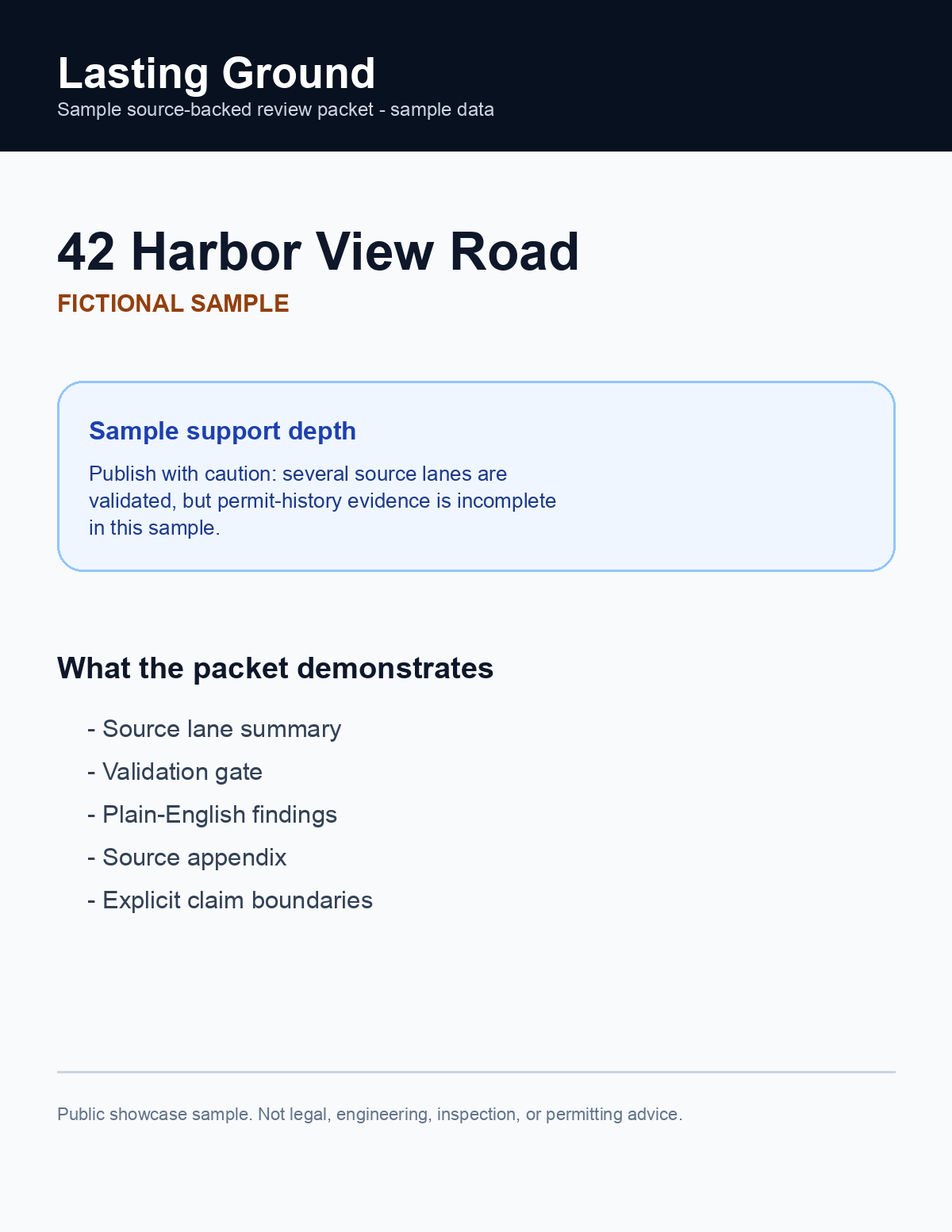
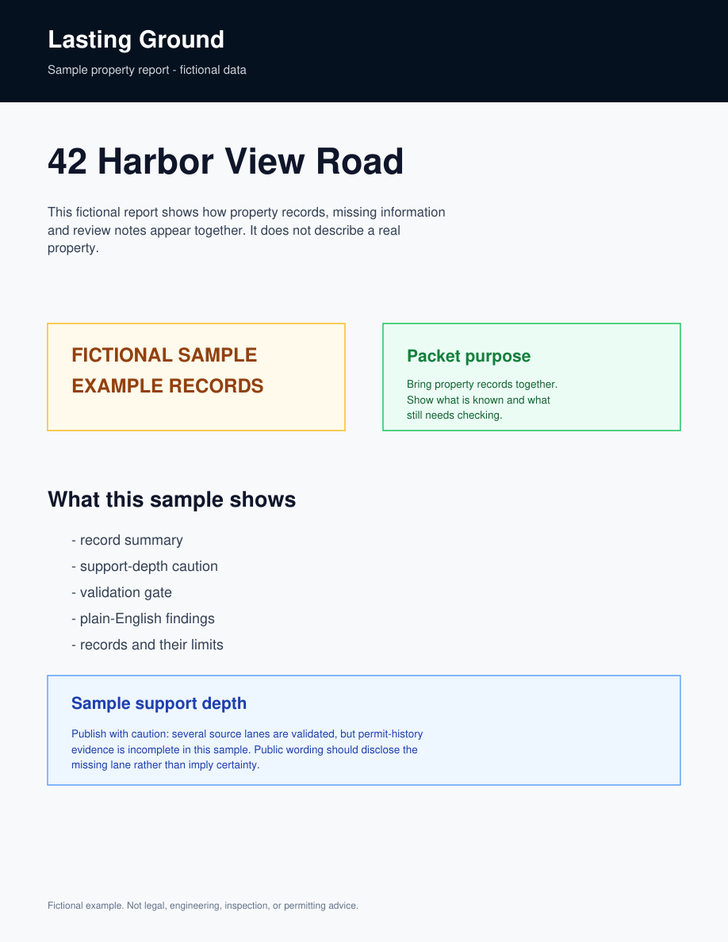
Clarify project documentation and remove obsolete portfolio copy

diff --git a/docs/index.html b/docs/index.html
@@ -1,1 +1,1 @@
-<!doctype html><html lang="en"><head><meta charset="utf-8"><meta name="viewport" content="width=device-width,initial-scale=1"><title>Lasting Ground — Public code showcase</title><meta name="description" content="Property research with official sources."><link rel="stylesheet" href="presentation.css"><style>.showcase-cover{width:100%;height:auto;border-radius:12px;display:block}.sample-layout{display:grid;grid-template-columns:.7fr 1.3fr;gap:48px}.sample-form{display:grid;align-content:start;gap:16px}.sample-form label{font-size:13px}.sample-form select{display:block;width:100%;margin-top:8px;background:#222824;color:#e9ede3;border:1px solid #465347;border-radius:5px;padding:12px;font:inherit;min-height:44px}.packet{background:#e5e8dc;color:#273c30;padding:32px;border-radius:12px}.packet h3{font:450 28px/1.3 Fraunces,Georgia,serif}.packet p{font-size:13px;color:#425547}.packet .source{border-top:1px solid #bbc8b6;padding:15px 0;display:flex;justify-content:space-between;gap:20px;font-size:13px;line-height:1.6}.packet .source small{display:block;font-size:12px;color:#4b604e}.packet .badge{font-size:11px;white-space:nowrap;color:#294b36}.packet .warn,.packet .no{color:#78401b}.packet .metric-row{display:flex;gap:30px;margin:25px 0}.packet .metric b{display:block;font-size:26px}.packet .metric span{font-size:11px}.packet .stamp{font-size:11px}.sample-note{font-size:12px!important;line-height:1.8}.project-row a:focus-visible{outline:2px solid #bed1a6}.demo-title{margin-top:0}@media(max-width:700px){.sample-layout{grid-template-columns:1fr;gap:28px}.packet{padding:23px}.packet .source{gap:12px}.packet .metric-row{gap:22px}.showcase-cover{border-radius:6px}}</style></head><body><a class="skip" href="#main">Skip to content</a><div class="wrap"><header><a class="identity" href="https://sulmusic2-star.github.io/">Tim Sullivan<span class="identity-dot" aria-hidden="true"></span></a><nav aria-label="Main navigation"><a href="https://sulmusic2-star.github.io/">Portfolio</a><a href="https://github.com/sulmusic2-star">GitHub</a></nav></header><main id="main"><section class="case-intro"><h1>Lasting Ground</h1><p class="lede">Property research with official sources.</p><div class="links"><a href="https://sulmusic2-star.github.io/case-studies/lasting-ground/">Explore the full case study ↗</a><a href="https://github.com/sulmusic2-star/lasting-ground-showcase">Repository and tests ↗</a></div></section><img class="showcase-cover" src="https://sulmusic2-star.github.io/assets/lasting-ground-product-cover.png" width="1280" height="720" alt="Lasting Ground, showing the actual public property-search interface"><section class="case-section" id="interactive"><div class="section-heading"><h2>Try a sample<br>property report.</h2><p>A small presentation demo using three fictional addresses. Change the fixture to see supported, caution, missing and not-applicable lanes remain visible.</p></div><div class="sample-layout"><div class="sample-form"><label for="address">Fictional address<select disabled id="address"><option>42 Harbor View Road</option><option>18 Marsh Lane</option><option>7 Upland Circle</option></select></label><label for="purpose">Packet heading<select disabled id="purpose"><option>Homeowner review packet</option><option>Buyer context packet</option><option>Neighborhood source brief</option></select></label><p class="sample-note">No source retrieval happens here. The full application source is private; the repository contains selected synthetic Python examples.</p><noscript><p>Enable JavaScript to switch sample fixtures. The source examples below remain available.</p></noscript></div><div class="packet" id="packet" aria-live="polite"><h3>Synthetic packet preview</h3><p>The interactive preview loads with JavaScript.</p></div></div></section><section class="case-section"><div class="section-heading"><h2>Read the code.</h2><p>Each example includes tests and notes on its limits.</p></div><div class="project-row"><h3><a href="https://github.com/sulmusic2-star/lasting-ground-showcase/blob/main/examples/evidence_scoring.py">Evidence scoring ↗</a></h3><p>Weights declared authority, freshness, support and blockers. The inputs are supplied metadata, not independently verified source truth.</p></div><div class="project-row"><h3><a href="https://github.com/sulmusic2-star/lasting-ground-showcase/blob/main/examples/packet_composer.py">Packet composition ↗</a></h3><p>Builds readable sections from scored evidence and carries cautions into the output.</p></div><div class="project-row"><h3><a href="https://github.com/sulmusic2-star/lasting-ground-showcase/blob/main/examples/source_lane_validation.py">Source lane validation ↗</a></h3><p>Checks sample lane states. Its support summary is count-based, not semantic property verification.</p></div></section><section class="case-section"><div class="section-heading"><h2>Follow a real<br>archived record.</h2><p>The companion GroundTruth-Geo case study follows an address query to the saved source, a location discrepancy and a conclusion limited to the queried point.</p></div><div class="links"><a href="https://sulmusic2-star.github.io/notes/groundtruth-geo/#evidence">Open the evidence explorer ↗</a><a href="https://sulmusic2-star.github.io/assets/evidence/archived-point-study.pdf">Download the archived study ↓</a><a href="https://github.com/sulmusic2-star/lasting-ground-showcase/tree/main/docs/adr">Design decisions ↗</a></div></section></main><footer><p>Tim Sullivan<br><span>Selected public examples.</span></p><a href="https://sulmusic2-star.github.io/">Return to portfolio</a></footer></div><script src="showcase.js"></script></body></html>
+<!doctype html><html lang="en"><head><meta charset="utf-8"><meta name="viewport" content="width=device-width,initial-scale=1"><title>Lasting Ground — Public code showcase</title><meta name="description" content="Property research with official records."><link rel="stylesheet" href="presentation.css"><style>.showcase-cover{width:100%;height:auto;border-radius:12px;display:block}.sample-layout{display:grid;grid-template-columns:.7fr 1.3fr;gap:48px}.sample-form{display:grid;align-content:start;gap:16px}.sample-form label{font-size:13px}.sample-form select{display:block;width:100%;margin-top:8px;background:#222824;color:#e9ede3;border:1px solid #465347;border-radius:5px;padding:12px;font:inherit;min-height:44px}.packet{background:#e5e8dc;color:#273c30;padding:32px;border-radius:12px}.packet h3{font:450 28px/1.3 Fraunces,Georgia,serif}.packet p{font-size:13px;color:#425547}.packet .source{border-top:1px solid #bbc8b6;padding:15px 0;display:flex;justify-content:space-between;gap:20px;font-size:13px;line-height:1.6}.packet .source small{display:block;font-size:12px;color:#4b604e}.packet .badge{font-size:11px;white-space:nowrap;color:#294b36}.packet .warn,.packet .no{color:#78401b}.packet .metric-row{display:flex;gap:30px;margin:25px 0}.packet .metric b{display:block;font-size:26px}.packet .metric span{font-size:11px}.packet .stamp{font-size:11px}.sample-note{font-size:12px!important;line-height:1.8}.project-row a:focus-visible{outline:2px solid #bed1a6}.demo-title{margin-top:0}@media(max-width:700px){.sample-layout{grid-template-columns:1fr;gap:28px}.packet{padding:23px}.packet .source{gap:12px}.packet .metric-row{gap:22px}.showcase-cover{border-radius:6px}}</style></head><body><a class="skip" href="#main">Skip to content</a><div class="wrap"><header><a class="identity" href="https://sulmusic2-star.github.io/">Tim Sullivan<span class="identity-dot" aria-hidden="true"></span></a><nav aria-label="Main navigation"><a href="https://sulmusic2-star.github.io/">Portfolio</a><a href="https://github.com/sulmusic2-star">GitHub</a></nav></header><main id="main"><section class="case-intro"><h1>Lasting Ground</h1><p class="lede">Property research with official records.</p><div class="links"><a href="https://sulmusic2-star.github.io/case-studies/lasting-ground/">Explore the full case study ↗</a><a href="https://github.com/sulmusic2-star/lasting-ground-showcase">Repository and tests ↗</a></div></section><img class="showcase-cover" src="https://sulmusic2-star.github.io/assets/lasting-ground-product-cover.png" width="1280" height="720" alt="Lasting Ground, showing the actual public property-search interface"><section class="case-section" id="interactive"><div class="section-heading"><h2>Try a sample<br>property report.</h2><p>Try three fictional addresses. Switch examples to see which records are supported, need review, are missing or do not apply.</p></div><div class="sample-layout"><div class="sample-form"><label for="address">Fictional address<select disabled id="address"><option>42 Harbor View Road</option><option>18 Marsh Lane</option><option>7 Upland Circle</option></select></label><label for="purpose">Packet heading<select disabled id="purpose"><option>Homeowner review packet</option><option>Buyer context packet</option><option>Neighborhood source brief</option></select></label><p class="sample-note">This demo does not retrieve records. The full application is private; the repository contains Python examples using fictional data.</p><noscript><p>Enable JavaScript to switch sample fixtures. The source examples below remain available.</p></noscript></div><div class="packet" id="packet" aria-live="polite"><h3>Synthetic packet preview</h3><p>The interactive preview loads with JavaScript.</p></div></div></section><section class="case-section"><div class="section-heading"><h2>Read the code.</h2><p>Each example includes tests and notes on its limits.</p></div><div class="project-row"><h3><a href="https://github.com/sulmusic2-star/lasting-ground-showcase/blob/main/examples/evidence_scoring.py">Evidence scoring ↗</a></h3><p>Weights declared authority, freshness, support and blockers. The inputs are supplied metadata, not independently verified source truth.</p></div><div class="project-row"><h3><a href="https://github.com/sulmusic2-star/lasting-ground-showcase/blob/main/examples/packet_composer.py">Packet composition ↗</a></h3><p>Builds readable sections from scored evidence and carries cautions into the output.</p></div><div class="project-row"><h3><a href="https://github.com/sulmusic2-star/lasting-ground-showcase/blob/main/examples/source_lane_validation.py">Source lane validation ↗</a></h3><p>Checks sample lane states. Its support summary is count-based, not semantic property verification.</p></div></section><section class="case-section"><div class="section-heading"><h2>Follow a real<br>archived record.</h2><p>The GroundTruth-Geo study follows an address query through a saved government response and a location check. Its conclusion applies only to the queried point.</p></div><div class="links"><a href="https://sulmusic2-star.github.io/notes/groundtruth-geo/#evidence">Open the evidence explorer ↗</a><a href="https://sulmusic2-star.github.io/assets/evidence/archived-point-study.pdf">Download the archived study ↓</a><a href="https://github.com/sulmusic2-star/lasting-ground-showcase/tree/main/docs/adr">Design decisions ↗</a></div></section></main><footer><p>Tim Sullivan<br><span>Selected public examples.</span></p><a href="https://sulmusic2-star.github.io/">Return to portfolio</a></footer></div><script src="showcase.js"></script></body></html>

diff --git a/docs/assets/lasting-ground-sample-packet.html b/docs/assets/lasting-ground-sample-packet.html
@@ -1,1 +1,1 @@
-<!doctype html><meta charset='utf-8'><title>Lasting Ground Sample Packet</title><body style='font-family:system-ui;margin:40px;max-width:900px'><h1>Lasting Ground sample packet</h1><p>Fake-data sample artifact source. Open the PDF from the live demo.</p><p><a href='lasting-ground-sample-packet.pdf'>PDF</a></p><p><a href='lasting-ground-sample-packet-cover.png'>Cover preview</a></p></body>
+<!doctype html><meta charset='utf-8'><title>Lasting Ground Sample Packet</title><body style='font-family:system-ui;margin:40px;max-width:900px'><h1>Lasting Ground sample packet</h1><p>A fictional property report. Open the PDF or its cover preview.</p><p><a href='lasting-ground-sample-packet.pdf'>PDF</a></p><p><a href='lasting-ground-sample-packet-cover.png'>Cover preview</a></p></body>

diff --git a/tools/build_sample_packet_assets.py b/tools/build_sample_packet_assets.py
@@ -103,24 +103,24 @@ def header(cmds, page_title="Lasting Ground"):
     cmds.append(rgb(248, 250, 252)); cmds.append(f"0 0 {W} {H} re f")
     cmds.append(rgb(7, 17, 31)); cmds.append(f"0 {H-86} {W} 86 re f")
     text(cmds, 40, H-40, page_title, 20, True, (255,255,255))
-    text(cmds, 40, H-62, "Sample source-backed review packet - sample data", 10, False, (209,213,219))
-    text(cmds, 40, 28, "Public showcase sample. Not legal, engineering, inspection, or permitting advice.", 8, False, (100,116,139))
+    text(cmds, 40, H-62, "Sample property report - fictional data", 10, False, (209,213,219))
+    text(cmds, 40, 28, "Fictional example. Not legal, engineering, inspection, or permitting advice.", 8, False, (100,116,139))
 
 
 def page_cover(pdf: MiniPDF):
     c=[]; header(c)
     text(c, 40, 646, "42 Harbor View Road", 30, True, (15,23,42))
-    for i,line in enumerate(wrap_lines("This fake packet demonstrates the artifact shape, source appendix, and validation posture of a source-backed property review system without using any real address.", 70)):
+    for i,line in enumerate(wrap_lines("This fictional report shows how property records, missing information and review notes appear together. It does not describe a real property.", 70)):
         text(c, 40, 610-i*15, line, 11, False, (51,65,85))
     rect(c, 40, 430, 250, 90, (255,251,235), (251,191,36))
     text(c, 60, 488, "FICTIONAL SAMPLE", 16, True, (146,64,14))
-    text(c, 60, 462, "SOURCE-BACKED", 16, True, (146,64,14))
+    text(c, 60, 462, "EXAMPLE RECORDS", 16, True, (146,64,14))
     rect(c, 322, 430, 250, 90, (236,253,245), (34,197,94))
     text(c, 342, 488, "Packet purpose", 14, True, (21,128,61))
-    for i,line in enumerate(wrap_lines("Translate fragmented public and official context into a reviewable, homeowner-readable packet while preserving uncertainty and source boundaries.", 36)):
+    for i,line in enumerate(wrap_lines("Bring property records together.\nShow what is known and what\nstill needs checking.", 36)):
         text(c,342,466-i*13,line,9,False,(22,101,52))
     text(c,40,366,"What this sample shows",18,True,(15,23,42))
-    items=["source lane summary","support-depth caution","validation gate","plain-English findings","source appendix with claim boundaries"]
+    items=["record summary","support-depth caution","validation gate","plain-English findings","records and their limits"]
     for i,it in enumerate(items):
         text(c,60,334-i*22,f"- {it}",12,False,(51,65,85))
     rect(c,40,132,532,92,(239,246,255),(96,165,250))
@@ -132,8 +132,8 @@ def page_cover(pdf: MiniPDF):
 
 def page_lanes(pdf: MiniPDF):
     c=[]; header(c)
-    text(c,40,670,"1. Source Lane Summary",22,True,(15,23,42))
-    for i,line in enumerate(wrap_lines("A source lane is a category of evidence. The system should track what each lane supports and what it does not support.",74)):
+    text(c,40,670,"1. Record summary",22,True,(15,23,42))
+    for i,line in enumerate(wrap_lines("Each record belongs to a category. The report lists what those records support and what remains unknown.",74)):
         text(c,40,642-i*14,line,10,False,(51,65,85))
     rows=[("State GIS Context","VALIDATED","Broad regional screening context."),("Town Zoning Reference","VALIDATED","Local routing/reference context."),("Conservation Record Lane","CAUTION","Public lane incomplete; disclose uncertainty."),("Flood Context","VALIDATED","Regional flood-context layer available."),("Permit History Packet","MISSING","No complete local packet in this sample.")]
     y=570
@@ -180,8 +180,8 @@ def page_gate(pdf: MiniPDF):
 
 def page_sources(pdf: MiniPDF):
     c=[]; header(c)
-    text(c,40,670,"4. Sample Source Appendix",22,True,(15,23,42))
-    for i,line in enumerate(wrap_lines("A useful packet should show source provenance and claim boundaries in plain English.",74)):
+    text(c,40,670,"4. Example records",22,True,(15,23,42))
+    for i,line in enumerate(wrap_lines("List where each record came from and what it supports.",74)):
         text(c,40,642-i*14,line,10,False,(51,65,85))
     rows=[("sample_state_gis","regional_context","Supports broad screening context; does not support parcel-specific legal conclusion."),("sample_town_zoning","local_reference","Supports local routing context; does not predict approval."),("sample_conservation_records","public_records","Supports review-history direction; incomplete in this sample."),("sample_flood_context","regional_layer","Supports flood-context screening; does not provide engineering design advice.")]
     y=570
@@ -206,7 +206,7 @@ def build_cover():
     d=ImageDraw.Draw(im)
     d.rectangle((0,0,1200,190),fill="#07111f")
     d.text((72,62),"Lasting Ground",font=_font(54,True),fill="white")
-    d.text((72,124),"Sample source-backed review packet - sample data",font=_font(24),fill="#cbd5e1")
+    d.text((72,124),"Sample property report - fictional data",font=_font(24),fill="#cbd5e1")
     d.text((72,280),"42 Harbor View Road",font=_font(66,True),fill="#0f172a")
     d.text((72,365),"FICTIONAL SAMPLE",font=_font(30,True),fill="#92400e")
     d.rounded_rectangle((72,480,1128,720),radius=32,fill="#eff6ff",outline="#93c5fd",width=3)
@@ -215,18 +215,18 @@ def build_cover():
     y=582
     for line in lines:
         d.text((112,y),line,font=_font(26),fill="#1e3a8a"); y+=34
-    d.text((72,820),"What the packet demonstrates",font=_font(38,True),fill="#0f172a")
-    items=["Source lane summary","Validation gate","Plain-English findings","Source appendix","Explicit claim boundaries"]
+    d.text((72,820),"What this sample shows",font=_font(38,True),fill="#0f172a")
+    items=["Record summary","Validation gate","Plain-English findings","Records","Limits"]
     y=900
     for item in items:
         d.text((110,y),f"- {item}",font=_font(31),fill="#334155"); y+=54
     d.rectangle((72,1350,1128,1352),fill="#cbd5e1")
-    d.text((72,1392),"Public showcase sample. Not legal, engineering, inspection, or permitting advice.",font=_font(22),fill="#64748b")
+    d.text((72,1392),"Fictional example. Not legal, engineering, inspection, or permitting advice.",font=_font(22),fill="#64748b")
     im.save(COVER_PATH,quality=94)
 
 
 def build_html():
-    HTML_PATH.write_text("""<!doctype html><meta charset='utf-8'><title>Lasting Ground Sample Packet</title><body style='font-family:system-ui;margin:40px;max-width:900px'><h1>Lasting Ground sample packet</h1><p>Fake-data sample artifact source. Open the PDF from the live demo.</p><p><a href='lasting-ground-sample-packet.pdf'>PDF</a></p><p><a href='lasting-ground-sample-packet-cover.png'>Cover preview</a></p></body>\n""")
+    HTML_PATH.write_text("""<!doctype html><meta charset='utf-8'><title>Lasting Ground Sample Packet</title><body style='font-family:system-ui;margin:40px;max-width:900px'><h1>Lasting Ground sample packet</h1><p>A fictional property report. Open the PDF or its cover preview.</p><p><a href='lasting-ground-sample-packet.pdf'>PDF</a></p><p><a href='lasting-ground-sample-packet-cover.png'>Cover preview</a></p></body>\n""")
 
 
 def main():

diff --git a/docs/evaluator-guide.md b/docs/evaluator-guide.md
@@ -1,12 +1,12 @@
-# Lasting Ground Evaluator Guide
+# Reviewing the Lasting Ground examples
 
-Use this if you are reviewing the repository quickly and want the strongest proof first.
+Start with the report, then inspect the code that produces it.
 
-## Thirty-second path
+## Where to start
 
 1. Open the live demo: https://sulmusic2-star.github.io/lasting-ground-showcase/
 2. Open the sample PDF packet: https://sulmusic2-star.github.io/lasting-ground-showcase/assets/lasting-ground-sample-packet.pdf
-3. Inspect the advanced evidence logic:
+3. Inspect the record checks and report code:
    - [`examples/evidence_scoring.py`](../examples/evidence_scoring.py)
    - [`examples/packet_composer.py`](../examples/packet_composer.py)
    - [`examples/source_lane_validation.py`](../examples/source_lane_validation.py)
@@ -16,12 +16,9 @@ Use this if you are reviewing the repository quickly and want the strongest proo
    - [GitHub Actions CI](https://github.com/sulmusic2-star/lasting-ground-showcase/actions/workflows/ci.yml)
 5. Read the case study: https://sulmusic2-star.github.io/case-studies/lasting-ground/
 
-## What this project is meant to prove
+## What the examples cover
 
-- Full-stack workflow thinking: source inputs, validation gates, support-depth decisions, generated artifacts.
-- Evidence discipline: source authority, freshness, missing-lane blockers, cautious packet language.
-- Operational design: review queues, release gates, sample artifacts, testable rules.
-- Communication: turning a complex domain into a packet a non-technical reader can understand.
+The Python examples take fictional records through validation, evidence scoring and report assembly. They show how missing information affects the output and which records need review. They do not retrieve or independently verify live property records.
 
 ## Files worth reading
 
@@ -33,6 +30,6 @@ Use this if you are reviewing the repository quickly and want the strongest proo
 | `examples/packet_language.py` | Guardrails against overconfident packet language. |
 | `tools/build_sample_packet_assets.py` | PDF/cover artifact generation. |
 
-## Why it is not just a PDF demo
+## Follow a result
 
-The PDF is the visible artifact. The examples show the operating system behind it: source-lane validation, evidence scoring, readiness decisions, review queues, and cautious language boundaries.
+Compare the input records, validation output and PDF. Warnings should remain visible when a record is missing or incomplete.

diff --git a/examples/README.md b/examples/README.md
@@ -1,16 +1,16 @@
 # Lasting Ground Code Examples
 
-Small examples that show how the evidence model can become a validation output before a packet is generated.
+These examples check supplied records before assembling a report.
 
 ## Files
 
-- [`sample_packet_input.json`](sample_packet_input.json) — sample source-lane input
-- [`source_lane_validation.py`](source_lane_validation.py) — validation logic for lane status, warnings, and support depth
-- [`sample_validation_output.json`](sample_validation_output.json) — generated output from the validation script
-- [`packet_language.py`](packet_language.py) — cautious packet summary helpers
-- [`evidence_scoring.py`](evidence_scoring.py) — source authority, freshness, and readiness scoring
-- [`packet_composer.py`](packet_composer.py) — reviewable packet-section planning
-- [`sample_packet_summary.txt`](sample_packet_summary.txt) — generated language sample
+- [`sample_packet_input.json`](sample_packet_input.json): sample source-lane input
+- [`source_lane_validation.py`](source_lane_validation.py): validation logic for lane status, warnings, and support depth
+- [`sample_validation_output.json`](sample_validation_output.json): generated output from the validation script
+- [`packet_language.py`](packet_language.py): cautious packet summary helpers
+- [`evidence_scoring.py`](evidence_scoring.py): source authority, freshness, and readiness scoring
+- [`packet_composer.py`](packet_composer.py): report-section planning
+- [`sample_packet_summary.txt`](sample_packet_summary.txt): generated language sample
 
 ## Run it
 
@@ -29,7 +29,7 @@ PY
 - treating missing evidence as a visible product state
 - separating source support from final packet language
 - using validation gates before generating stronger claims
-- making support depth depend on source quality, not just source count
-- keeping generated packet language cautious and source-tied
+- assigning a support label from supplied lane states; the separate scoring example also considers authority and freshness
+- keeping report wording within what the records support
 - scoring evidence by authority, freshness, support, and missing-lane blockers
 - composing packet sections from validation output instead of free-form claims

diff --git a/docs/support-depth-model.md b/docs/support-depth-model.md
@@ -1,23 +1,21 @@
 # Support Depth Model
 
-Support depth is a way to describe how strong the local/source-backed context is for a given area.
+Support depth describes how much the available records support a property report.
 
-This showcase uses a simplified support-depth model. The concept is:
+These are the intended meanings of the labels. The public validator is a simplified example that counts supplied lane states; it does not independently check record quality.
 
 ## Lower support
 
-The system has enough broad public/regional context to produce a cautious screening artifact, but local evidence is thin or incomplete.
+Regional records provide background, but local records are limited or incomplete.
 
 ## Standard support
 
-The system has meaningful local or regional source coverage, enough to route the reader toward relevant public context, while still disclosing missing lanes.
+Local or regional records help direct the reader to relevant information. Missing records remain listed.
 
 ## Higher support
 
-The system has deeper, durable, source-backed local coverage across the lanes that matter for the product’s artifact type.
+Local records cover the subjects needed for the report and support its statements.
 
 ## Guardrail
 
-Support depth is not a marketing label. It should not be promoted unless the source set actually supports it.
-
-The important implementation principle is honesty over breadth: more URLs do not automatically mean better support.
+A higher label needs support from the records. More URLs alone do not establish that support.

diff --git a/docs/case-study.md b/docs/case-study.md
@@ -6,7 +6,7 @@ Property research brings together records that often live in separate federal, s
 
 ## What this repository shows
 
-The public examples use synthetic inputs. They cover source-lane validation, evidence scoring, report composition and constrained summary language. The application source and source-acquisition system are private.
+The public examples use synthetic inputs. They cover source-lane validation, evidence scoring, report composition and constrained summary language. The application source and record-retrieval system are private.
 
 ## Technical decisions
 
@@ -24,6 +24,6 @@ The repository includes the example inputs, implementation and tests. A reader c
 
 ## Scope
 
-These files demonstrate a bounded approach to source validation and report assembly. They do not establish live-source accuracy, statewide or national coverage, paid adoption, revenue or production readiness. The public site's search interface was inspected on October 26, 2026; answers depend on available records and may require access.
+These examples check supplied records and assemble reports. They do not establish live-source accuracy, statewide or national coverage, paid adoption, revenue or production readiness. The public site's search interface was inspected on October 26, 2026; answers depend on available records and may require access.
 
 [Run the examples](../README.md#run-locally) · [Engineering decisions](engineering-decisions.md)

diff --git a/docs/adr/001-evidence-scoring-before-language.md b/docs/adr/001-evidence-scoring-before-language.md
@@ -2,7 +2,7 @@
 
 ## Context
 
-A property packet can look confident even when the supporting public context is incomplete. The system needs to prevent readable language from outrunning the source evidence.
+A property report can sound certain even when records are incomplete. Its wording needs to reflect those gaps.
 
 ## Decision
 
@@ -10,7 +10,7 @@ Packet language is downstream of evidence scoring. Source lanes are scored for a
 
 ## Tradeoff
 
-This produces more cautious packets and requires more validation code. The benefit is that the artifact stays source-bounded and reviewable.
+This produces more cautious packets and requires more validation code. Readers can trace each statement to the records that support it.
 
 ## Consequences
 
@@ -18,7 +18,7 @@ This produces more cautious packets and requires more validation code. The benef
 - Stronger wording requires stronger support.
 - Generated packet sections can cite the validation state they came from.
 
-## Public proof
+## Code and tests
 
 - [`examples/evidence_scoring.py`](../../examples/evidence_scoring.py)
 - [`tests/test_evidence_scoring.py`](../../tests/test_evidence_scoring.py)

diff --git a/docs/adr/002-uncertainty-as-product-state.md b/docs/adr/002-uncertainty-as-product-state.md
@@ -2,7 +2,7 @@
 
 ## Context
 
-Missing or stale source lanes are easy to hide in a clean-looking packet. That would make the output simpler, but less honest.
+Reports need to show missing and outdated records so readers know what remains uncertain.
 
 ## Decision
 
@@ -10,15 +10,15 @@ Uncertainty should appear as caution, missing, or review-needed states in the pa
 
 ## Tradeoff
 
-The output feels less magically complete. The benefit is that reviewers can see the source boundary and understand what still needs review.
+The report has more cautions to read. Those cautions identify the records that need review.
 
 ## Consequences
 
 - Missing lanes trigger packet cautions.
-- Review states become part of the artifact, not internal-only metadata.
+- Review states appear in the report as well as internal metadata.
 - The product avoids overstating public context.
 
-## Public proof
+## Code and tests
 
 - [`examples/packet_composer.py`](../../examples/packet_composer.py)
 - [`examples/packet_language.py`](../../examples/packet_language.py)

diff --git a/docs/system-architecture.md b/docs/system-architecture.md
@@ -1,6 +1,6 @@
 # System Architecture
 
-Lasting Ground is organized around a source-backed review workflow.
+This diagram outlines how property records move from an address search into a report.
 
 ```mermaid
 flowchart LR
@@ -43,7 +43,7 @@ flowchart LR
 
 ### Frontend
 
-Public-facing intake and explanation surfaces. The frontend should make the product understandable without overpromising certainty.
+The interface handles the search and explains results, missing records and limits.
 
 ### Backend
 
@@ -57,6 +57,6 @@ Reusable regional and town-specific context packs. Packs separate local source c
 
 Release gates and support-depth checks prevent the product from overstating what the source set can actually prove.
 
-## Shareable abstraction
+## Responsibilities
 
-The key architectural lesson is to separate evidence collection, deterministic routing, claim boundaries, and user-facing explanation.
+Record retrieval, routing rules, supported claims and report wording are separate parts of the system.

diff --git a/docs/evidence-model.md b/docs/evidence-model.md
@@ -1,6 +1,6 @@
 # Evidence Model
 
-The evidence model is built to answer four questions:
+Each record needs to answer four questions:
 
 1. What source supports this statement?
 2. Is the source official, public, regional, local, or derived?
@@ -26,13 +26,13 @@ supports:
 
 ## Claim boundary
 
-A source can support context without supporting a conclusion. That distinction is central to the product.
+A record can provide background without supporting a property-specific conclusion.
 
 Example:
 
 - Safe: "The packet found a town conservation source that may be relevant to review routing."
 - Unsafe: "This property will require conservation approval."
 
-## Why this matters
+## Missing information
 
-Public property data is fragmented and uneven. A credible system has to model uncertainty explicitly instead of smoothing it away.
+Public property records vary in coverage and age. The report needs to show those limits.

diff --git a/README.md b/README.md
@@ -35,6 +35,6 @@ The tests apply to the public examples. See the [testing notes](docs/testing.md)
 
 The public search interface is available at [lastingground.com](https://lastingground.com). Answers depend on the records available for an address, and access may be required. The cover and case study use screenshots of the public interface alongside labeled fictional record-check and report examples. GroundTruth-Geo is a [supporting evaluation study](https://sulmusic2-star.github.io/notes/groundtruth-geo/).
 
-These examples help organize property records. It does not replace a survey, an official determination or legal, engineering, insurance or lending advice.
+These examples help organize property records. They do not replace a survey, an official determination or legal, engineering, insurance or lending advice.
 
 [Tim Sullivan](https://sulmusic2-star.github.io/) · [Contact](mailto:hello@lastingground.com)
